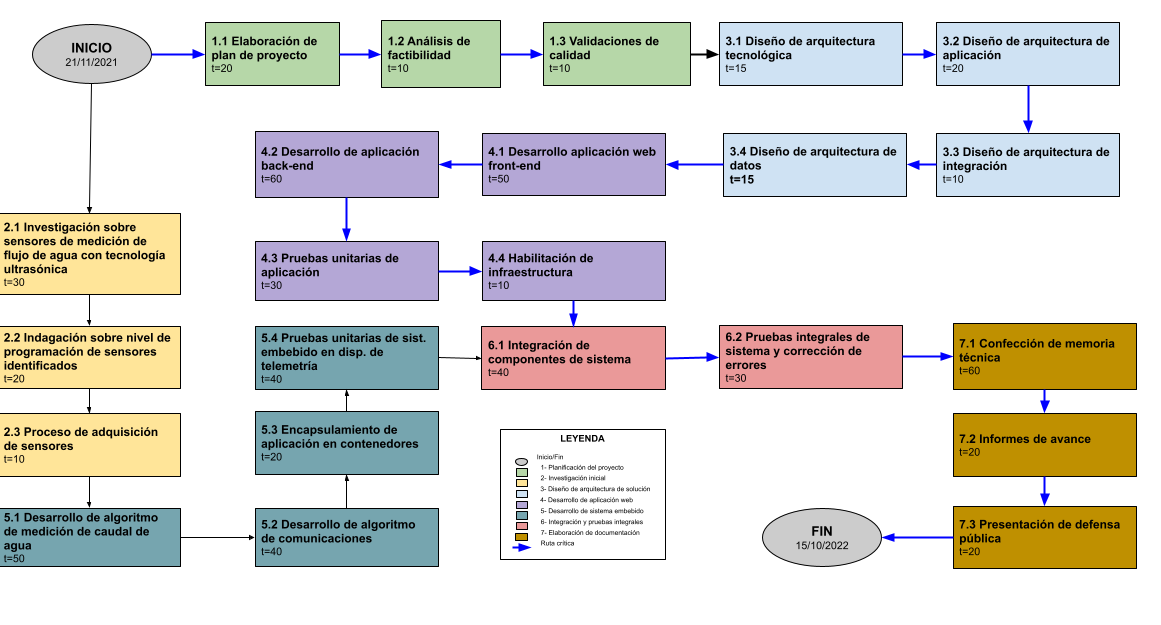
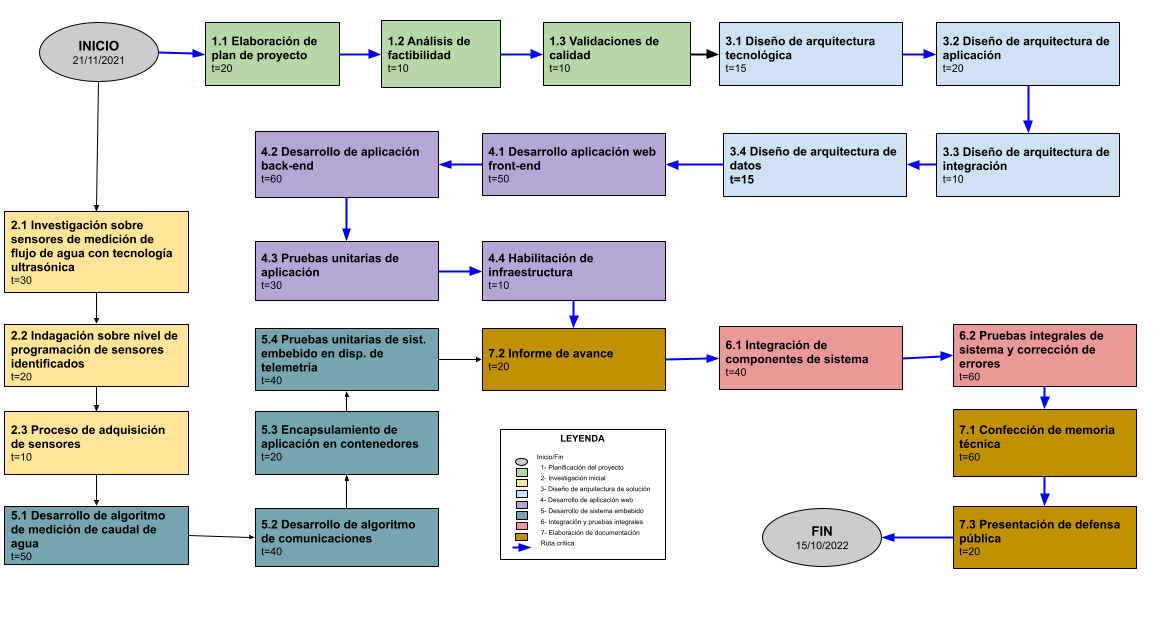
Actualizacion v3.0

diff --git a/PlanTrabajo_PaoloBazan.tex b/PlanTrabajo_PaoloBazan.tex
@@ -93,7 +93,7 @@ Buenos Aires, \fechaInicioName
 
 \vspace{2cm}
 
-Por medio de la presente se acuerda con el \authorname\hspace{1px} que su Trabajo Final de la \degreename\hspace{1px} se titulará ``\ttitle''. Consistirá en la implementación de un prototipo de un sistema de control del flujo de agua de un punto de salida, y tendrá un presupuesto preliminar estimado de 630 hs de trabajo y USD 8200, con fecha de inicio \fechaInicioName\hspace{1px} y fecha de presentación pública \fechaFinalName.
+Por medio de la presente se acuerda con el \authorname\hspace{1px} que su Trabajo Final de la \degreename\hspace{1px} se titulará ``\ttitle''. Consistirá en la implementación de un prototipo de un sistema de control del flujo de agua de un punto de salida, y tendrá un presupuesto preliminar estimado de 660 hs de trabajo y USD 8208, con fecha de inicio \fechaInicioName\hspace{1px} y fecha de presentación pública \fechaFinalName.
 
 Se adjunta a esta acta la planificación inicial.
 
@@ -460,10 +460,10 @@ Los entregables del proyecto son:
 	\item Encapsulamiento de aplicación en contenedores (20 hs).
 	\item Pruebas unitarias de sistema embebido en dispositivo de telemetría (40 hs).
 	\end{enumerate}
-\item \textbf{Integración y pruebas integrales: 70 hs}
+\item \textbf{Integración y pruebas integrales: 100 hs}
 	\begin{enumerate}
 	\item Integración de componentes (40 hs).
-	\item Pruebas integrales de sistema y corrección de errores (30 hs).
+	\item Pruebas integrales de sistema y corrección de errores (60 hs).
 	\end{enumerate}
 \item \textbf{Elaboración de documentación: 100 hs}
 	\begin{enumerate}
@@ -473,7 +473,7 @@ Los entregables del proyecto son:
 	\end{enumerate}
 \end{enumerate}
 
-\textbf{Cantidad total de horas: 630 hs}
+\textbf{Cantidad total de horas: 660 hs}
 
 \end{consigna}
 
@@ -511,51 +511,46 @@ Las unidades mostradas en la gráfica están expresadas en \textbf{horas}.
 \section{11. Diagrama de Gantt}
 \label{sec:gantt}
 
-\begin{consigna}{red}
+\begin{consigna}{black}
 
-Existen muchos programas y recursos \textit{online} para hacer diagramas de gantt, entre los cuales destacamos:
+A continuación se listan las actividades con las fechas de inicio y fin establecidas para el proyecto. Se tienen en cuenta las siguientes consideraciones:
 
 \begin{itemize}
-\item Planner
-\item GanttProject
-\item Trello + \textit{plugins}. En el siguiente link hay un tutorial oficial: \\ \url{https://blog.trello.com/es/diagrama-de-gantt-de-un-proyecto}
-\item Creately, herramienta online colaborativa. \\\url{https://creately.com/diagram/example/ieb3p3ml/LaTeX}
-\item Se puede hacer en latex con el paquete \textit{pgfgantt}\\ \url{http://ctan.dcc.uchile.cl/graphics/pgf/contrib/pgfgantt/pgfgantt.pdf}
-\end{itemize}
+		\item La asignación de un (01) recurso de tipo desarrollador.
+		\item El trabajo diario será de tres (03) horas por seis (06) días por semana.
+		\item Vacaciones desde el 15 de diciembre de 2021 al 28 de febrero de 2022 y desde el 11 al 22 de julio de 2022.
+	\end{itemize}
 
-Pegar acá una captura de pantalla del diagrama de Gantt, cuidando que la letra sea suficientemente grande como para ser legible. 
-Si el diagrama queda demasiado ancho, se puede pegar primero la ``tabla'' del Gantt y luego pegar la parte del diagrama de barras del diagrama de Gantt.
 
-Configurar el software para que en la parte de la tabla muestre los códigos del EDT (WBS).\\
-Configurar el software para que al lado de cada barra muestre el nombre de cada tarea.\\
-Revisar que la fecha de finalización coincida con lo indicado en el Acta Constitutiva.
+\includegraphics[scale=.7]{./Figuras/TF-gantt-lista.png} 
 
-En la figura \ref{fig:gantt}, se muestra un ejemplo de diagrama de gantt realizado con el paquete de \textit{pgfgantt}. En la plantilla pueden ver el código que lo genera y usarlo de base para construir el propio.
+En la figura \ref{fig:diagGantt}, se muestra el de diagrama de gantt realizado para el proyecto.
+%con el paquete de \textit{pgfgantt}. En la plantilla pueden ver el código que lo genera y usarlo de base para construir el propio.
 
-\begin{figure}[htbp]
-\begin{center}
-\begin{ganttchart}{1}{12}
-  \gantttitle{2020}{12} \\
-  \gantttitlelist{1,...,12}{1} \\
-  \ganttgroup{Group 1}{1}{7} \\
-  \ganttbar{Task 1}{1}{2} \\
-  \ganttlinkedbar{Task 2}{3}{7} \ganttnewline
-  \ganttmilestone{Milestone o hito}{7} \ganttnewline
-  \ganttbar{Final Task}{8}{12}
-  \ganttlink{elem2}{elem3}
-  \ganttlink{elem3}{elem4}
-\end{ganttchart}
-\end{center}
-\caption{Diagrama de gantt de ejemplo}
-\label{fig:gantt}
-\end{figure}
+%\begin{figure}[htbp]
+%\begin{center}
+%\begin{ganttchart}{1}{12}
+%  \gantttitle{2020}{12} \\
+%  \gantttitlelist{1,...,12}{1} \\
+%  \ganttgroup{Group 1}{1}{7} \\
+%  \ganttbar{Task 1}{1}{2} \\
+%  \ganttlinkedbar{Task 2}{3}{7} \ganttnewline
+%  \ganttmilestone{Milestone o hito}{7} \ganttnewline
+%  \ganttbar{Final Task}{8}{12}
+%  \ganttlink{elem2}{elem3}
+%  \ganttlink{elem3}{elem4}
+%\end{ganttchart}
+%\end{center}
+%\caption{Diagrama de gantt de ejemplo}
+%\label{fig:gantt}
+%\end{figure}
 
 
 \begin{landscape}
 \begin{figure}[htpb]
 \centering 
-\includegraphics[height=.85\textheight]{./Figuras/Gantt-2.png}
-\caption{Ejemplo de diagrama de Gantt rotado}
+\includegraphics[height=.85\textheight]{./Figuras/TF-gantt.png}
+\caption{Diagrama de Gantt}
 \label{fig:diagGantt}
 \end{figure}
 
@@ -567,14 +562,8 @@ En la figura \ref{fig:gantt}, se muestra un ejemplo de diagrama de gantt realiza
 \section{12. Presupuesto detallado del proyecto}
 \label{sec:presupuesto}
 
-\begin{consigna}{red}
-Si el proyecto es complejo entonces separarlo en partes:
-\begin{itemize}
-	\item Un total global, indicando el subtotal acumulado por cada una de las áreas.
-	\item El desglose detallado del subtotal de cada una de las áreas.
-\end{itemize}
-
-IMPORTANTE: No olvidarse de considerar los COSTOS INDIRECTOS.
+\begin{consigna}{black}
+Se presenta el presupuesto del proyecto. Está expresado en dólares americanos (USD).
 
 \end{consigna}
 
@@ -589,24 +578,22 @@ Descripción &
   \multicolumn{1}{c|}{\cellcolor[HTML]{C0C0C0}Cantidad} &
   \multicolumn{1}{c|}{\cellcolor[HTML]{C0C0C0}Valor unitario} &
   \multicolumn{1}{c|}{\cellcolor[HTML]{C0C0C0}Valor total} \\ \hline
- &
-  \multicolumn{1}{c|}{} &
-  \multicolumn{1}{c|}{} &
-  \multicolumn{1}{c|}{} \\ \hline
- &
-  \multicolumn{1}{c|}{} &
-  \multicolumn{1}{c|}{} &
-  \multicolumn{1}{c|}{} \\ \hline
-\multicolumn{1}{|l|}{} &
-   &
-   &
+\multicolumn{1}{|l|}{Servicios de ingeniería} & 660 hs
+   & 10.00
+   & 6600.00
    \\ \hline
-\multicolumn{1}{|l|}{} &
-   &
-   &
+\multicolumn{1}{|l|}{Sensor de caudal de agua ultrasónico} & 01 un
+   & 110.00
+   & 110.00
    \\ \hline
+\multicolumn{1}{|l|}{Unidad de cómputo Raspberry Pi} & 01 un
+   & 130.00
+   & 130.00
+   \\ \hline
+
+
 \multicolumn{3}{|c|}{SUBTOTAL} &
-  \multicolumn{1}{c|}{} \\ \hline
+  \multicolumn{1}{r|}{6840.00} \\ \hline
 \rowcolor[HTML]{C0C0C0} 
 \multicolumn{4}{|c|}{\cellcolor[HTML]{C0C0C0}COSTOS INDIRECTOS} \\ \hline
 \rowcolor[HTML]{C0C0C0} 
@@ -614,22 +601,15 @@ Descripción &
   \multicolumn{1}{c|}{\cellcolor[HTML]{C0C0C0}Cantidad} &
   \multicolumn{1}{c|}{\cellcolor[HTML]{C0C0C0}Valor unitario} &
   \multicolumn{1}{c|}{\cellcolor[HTML]{C0C0C0}Valor total} \\ \hline
-\multicolumn{1}{|l|}{} &
-   &
-   &
+\multicolumn{1}{|l|}{20\% de costo directo} & 01
+   & 1368.00
+   & 1368.00
    \\ \hline
-\multicolumn{1}{|l|}{} &
-   &
-   &
-   \\ \hline
-\multicolumn{1}{|l|}{} &
-   &
-   &
-   \\ \hline
+
 \multicolumn{3}{|c|}{SUBTOTAL} &
-  \multicolumn{1}{c|}{} \\ \hline
+  \multicolumn{1}{r|}{1368.00} \\ \hline
 \rowcolor[HTML]{C0C0C0}
-\multicolumn{3}{|c|}{TOTAL} &
+\multicolumn{3}{|r|}{TOTAL} & 8208.00
    \\ \hline
 \end{tabularx}%
 \end{table}
